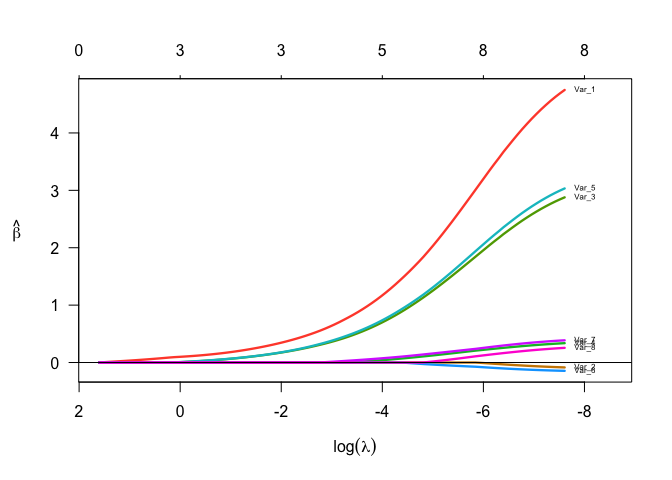
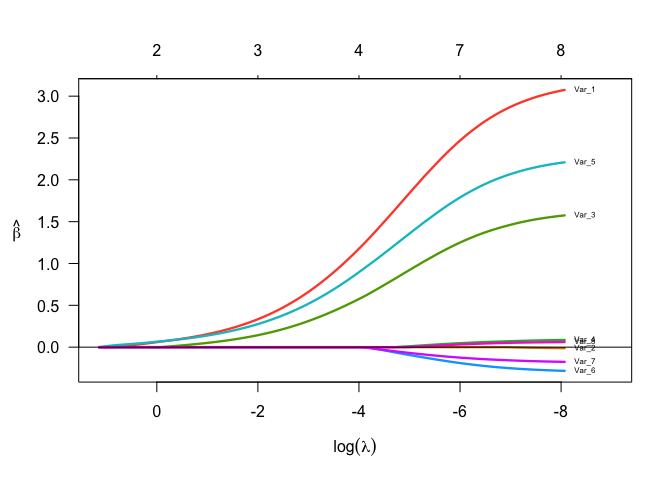
correct typo for release

diff --git a/README.md b/README.md
@@ -1,5 +1,7 @@
 
 <!-- README.md is generated from README.Rmd. Please edit that file -->
+[![Build Status](https://travis-ci.org/yang0117/TVsMiss.svg?branch=master)](https://travis-ci.org/yang0117/TVsMiss)
+
 TVsMiss
 =======
 
@@ -32,7 +34,7 @@ colnames(xm) <- paste0("Var_",1:p)
 fit02 <- tvsmiss(x=xm,y=y,method = "BIC")
 fit02$selection_beta
 #>     Var_1     Var_2     Var_3     Var_4     Var_5     Var_6     Var_7 
-#> 0.5247073 0.0000000 0.2900665 0.0000000 0.3025174 0.0000000 0.0000000 
+#> 1.1626821 0.0000000 0.5684325 0.0000000 0.8859860 0.0000000 0.0000000 
 #>     Var_8 
 #> 0.0000000
 plot(fit02,x.log=TRUE,label = TRUE)
